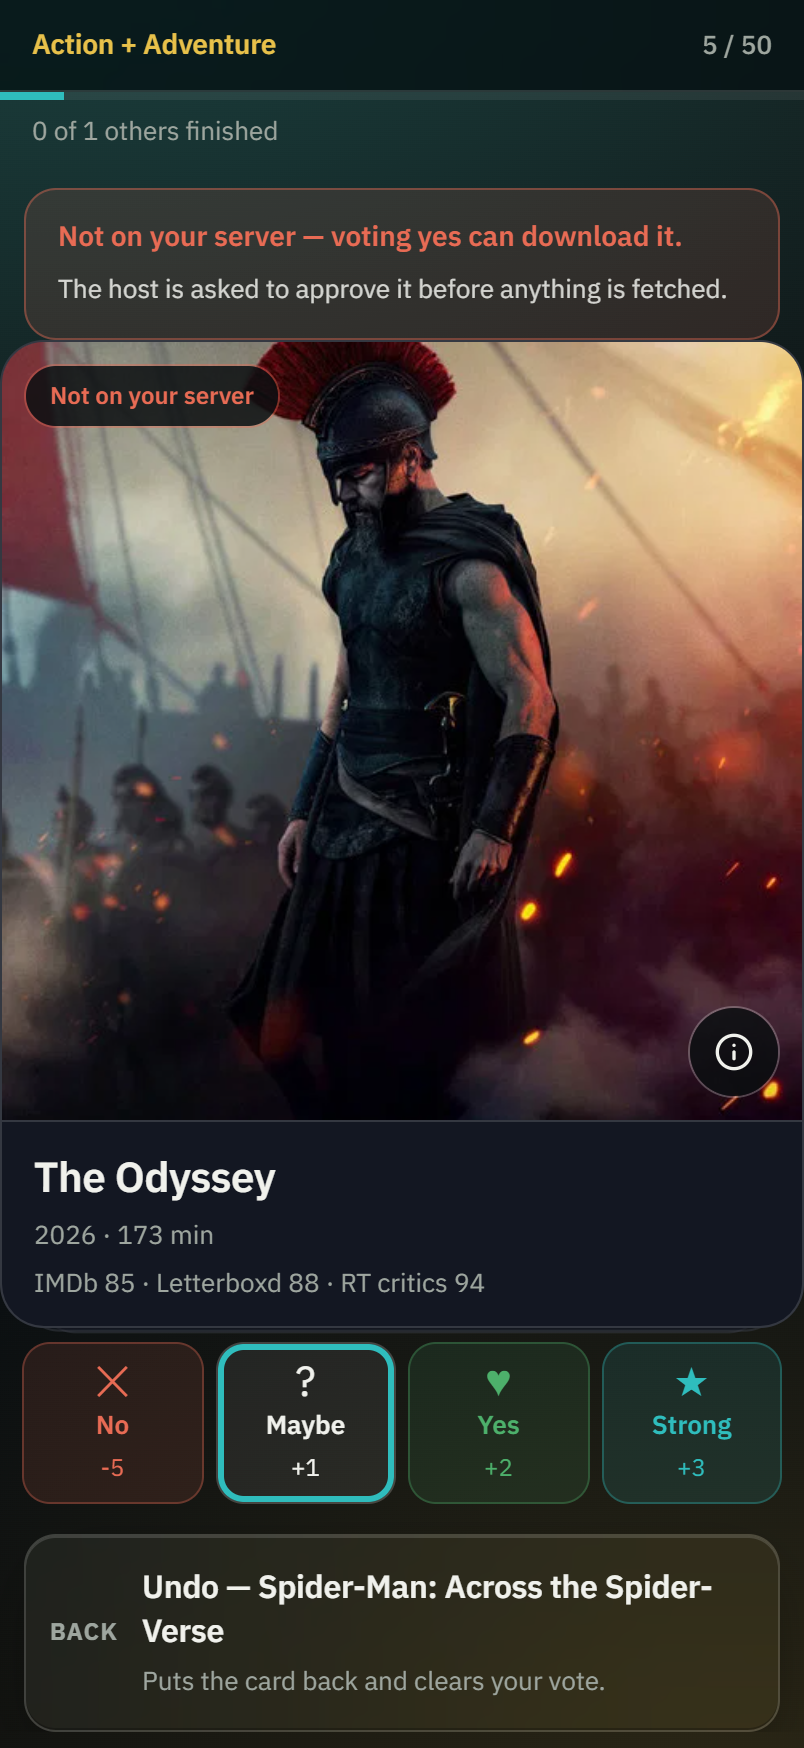
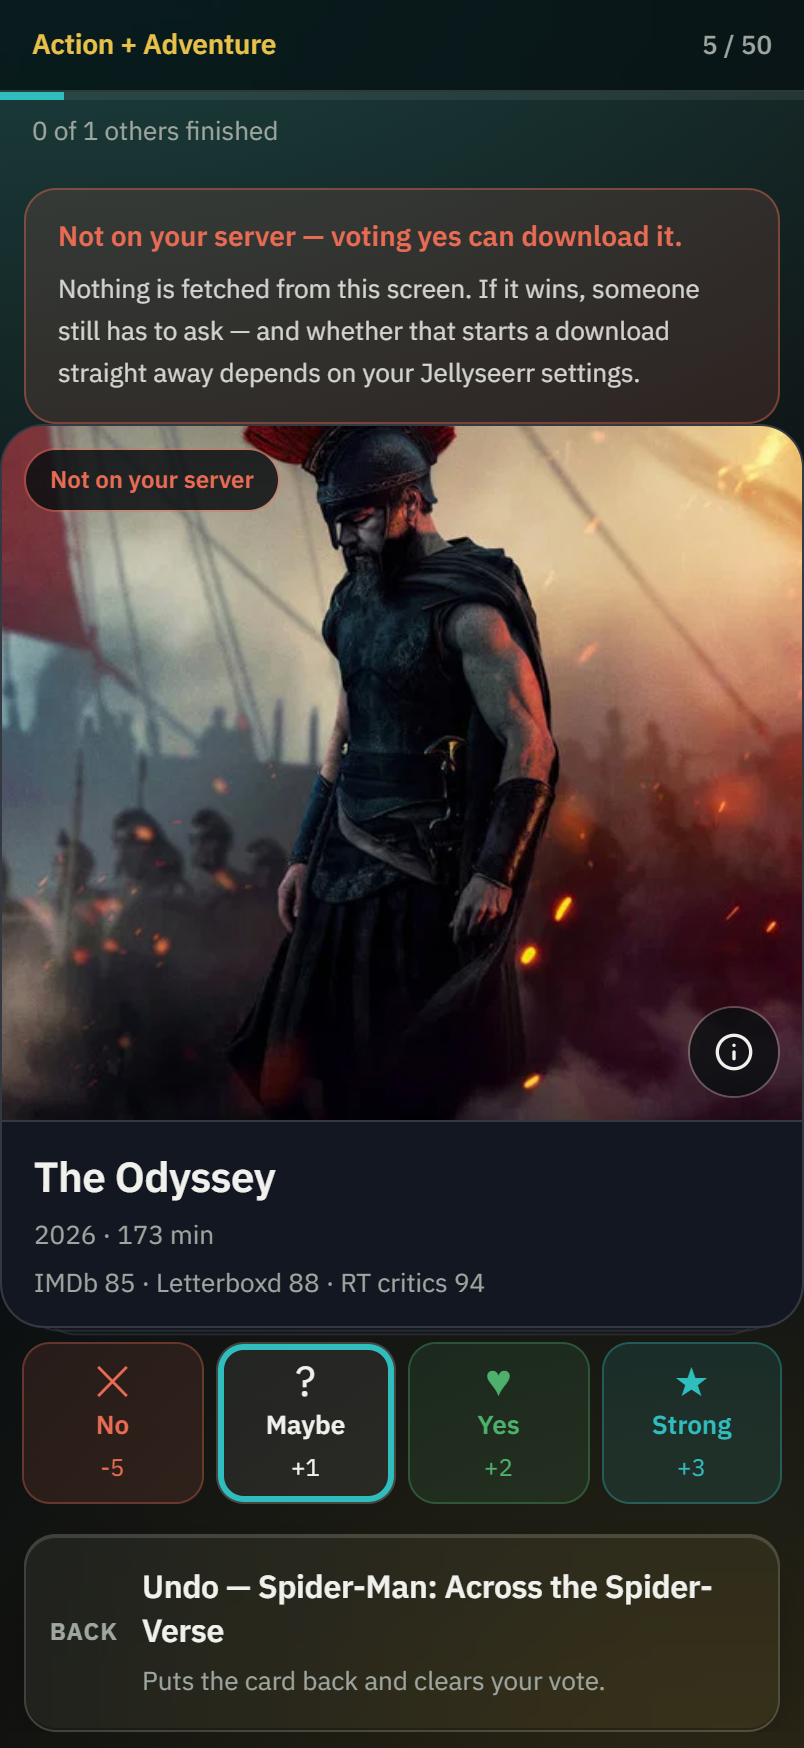
Photograph the branch nobody had seen, and give its confirms focus
Board round 4, the rest of the queue.

R113. Both confirmations on the winner screen replace the button that
opened them, so React unmounts the pressed control and focus falls to
<body> with nothing announced -- on the two controls where the next tap
either throws away what the room agreed on or spends somebody else's
disk. Same failure R52 fixed on the winner heading and R31 on the details
sheet; it survived because neither ruling was about a control that
deletes itself. Each confirm is now a labelled group that takes focus,
marked data-app-focus so no ring is drawn.

The sending state had no accessible name at all: its only child was an
aria-hidden spinner, so a screen reader user pressed "Yes, ask" and the
button went silent -- the one moment where silence and success look
identical and the difference is a download.

R114. Every winner capture ran in local scope, where the film is always
on the server, so the whole download-disclosure branch had only been read
as source and never seen. Two false claims survived in that copy because
of it: R107's approval gate, and R111 where the fix for R107 missed one
of four sites and shipped for hours in the place a person reads
immediately before pressing the button. The Any Movie pass now drives a
not-held film to the winner screen and opens the confirmation, so the bar,
the cost line and the confirm appear in one frame and the next
contradiction between them is visible rather than deducible.
[…]

Changed region(s): [[0.0, 0.1545, 1.0, 0.6487]]

diff --git a/src/ui/components/WinnerScreen.tsx b/src/ui/components/WinnerScreen.tsx
@@ -19,6 +19,13 @@ export function WinnerScreen({
   const { room, rejectWinner } = roomHook;
   const heading = useRef<HTMLHeadingElement>(null);
   const [confirmingReject, setConfirmingReject] = useState(false);
+  const rejectPanel = useRef<HTMLDivElement>(null);
+
+  // R113: the panel replaces the button that opened it, so focus has to be put
+  // somewhere deliberately or it falls to <body> with nothing announced.
+  useEffect(() => {
+    if (confirmingReject) rejectPanel.current?.focus();
+  }, [confirmingReject]);
 
   /**
    * R52: this screen replaces the deck outright. Nothing announced that, so a
@@ -172,7 +179,26 @@ export function WinnerScreen({
           and a confirm here costs nothing: nobody rejects a winner in a hurry.
         */}
         {confirmingReject ? (
-          <div className="flex flex-col gap-2">
+          /*
+            R113: the control that opened this panel no longer exists.
+
+            Both confirms replace their own trigger, so React unmounts the
+            button under the thumb that pressed it and focus falls to <body> --
+            the screen changes and a screen reader is told nothing, which is the
+            failure R52 fixed on the winner heading and R31 on the details
+            sheet, in the one place where the next tap spends somebody's disk or
+            throws away the room's decision.
+
+            data-app-focus so no ring is drawn: nobody navigated here (R80).
+          */
+          <div
+            ref={rejectPanel}
+            tabIndex={-1}
+            data-app-focus
+            role="group"
+            aria-label="Confirm turning down this film"
+            className="flex flex-col gap-2 outline-none"
+          >
             <p
               id="reject-cost"
               className="rounded-[var(--radius-control)] bg-super/12 px-3.5 py-2.5 text-body font-medium leading-relaxed text-super ring-1 ring-super/35"
@@ -269,6 +295,12 @@ function RequestControl({
 }) {
   const [state, setState] = useState<'idle' | 'confirm' | 'busy' | 'done' | 'error'>('idle');
   const [message, setMessage] = useState<string | null>(null);
+  const confirmPanel = useRef<HTMLDivElement>(null);
+
+  // R113, as above: this panel also unmounts its own trigger.
+  useEffect(() => {
+    if (state === 'confirm') confirmPanel.current?.focus();
+  }, [state]);
 
   async function send() {
     setState('busy');
@@ -306,7 +338,14 @@ function RequestControl({
 
   if (state === 'confirm' || state === 'busy') {
     return (
-      <div className="flex flex-col">
+      <div
+        ref={confirmPanel}
+        tabIndex={-1}
+        data-app-focus
+        role="group"
+        aria-label="Confirm asking for this film"
+        className="flex flex-col outline-none"
+      >
         <p
           id="request-cost"
           className="rounded-[var(--radius-control)] bg-destructive/[0.14] px-3.5 py-2.5 text-label font-medium leading-relaxed text-destructive ring-1 ring-destructive/35"
@@ -318,7 +357,16 @@ function RequestControl({
         </p>
         <div className="grid grid-cols-2 gap-2">
           <BigButton onClick={send} tone="commit" disabled={state === 'busy'} ariaDescribedBy="request-cost">
-            {state === 'busy' ? <Loader2 aria-hidden className="mx-auto size-5 animate-spin" /> : 'Yes, ask'}
+            {state === 'busy' ? (
+              <>
+                {/* The spinner is decorative; without this the button has no
+                    accessible name at all while it is sending (R113). */}
+                <Loader2 aria-hidden className="mx-auto size-5 animate-spin" />
+                <span className="sr-only">Sending the request…</span>
+              </>
+            ) : (
+              'Yes, ask'
+            )}
           </BigButton>
           <BigButton onClick={() => setState('idle')} tone="ghost">
             Cancel

diff --git a/scripts/screenshots.ts b/scripts/screenshots.ts
@@ -518,6 +518,12 @@ async function main() {
       */
       const wide = await hostRoom();
       sockets.push(wide.a);
+      // Keep the latest state, so the socket member can vote on the same card
+      // the browser is looking at without another round trip.
+      let wideState: { deck?: Array<{ id: string; title: string }> } = {};
+      wide.a.on('room:state', (st: typeof wideState) => {
+        wideState = st;
+      });
       await ack(wide.a, 'room:settings', { scope: 'wide' });
 
       await open(page, `${URL}/room/${wide.roomId}`, '#join-name');
@@ -599,6 +605,60 @@ ${seen.slice(0, 400)}`);
       if (found) {
         await new Promise((r) => setTimeout(r, 500));
         await shoot(page, '10-deck-not-on-server');
+
+        /*
+          The winner screen for a film the server does not have.
+
+          Never photographed: every winner capture runs in local scope, where
+          `held` is true, so the branch carrying the download disclosure — the
+          cost line, and the request control under it — had only ever been read
+          as source. Two separate wrong claims survived in that copy because of
+          it (R107 and R111), the second for hours after the first was fixed.
+
+          NOTHING HERE PRESSES SEND. "Request via Jellyseerr" only opens the
+          confirmation; the send is "Yes, ask" inside it, and this script must
+          never touch that control — it fires a real request into the host's
+          Radarr as a real download.
+        */
+        const notHeld = await page.evaluate(() => {
+          for (const b of document.querySelectorAll('button')) {
+            const m = /^Vote yes on (.+), \+2$/.exec(b.getAttribute('aria-label') ?? '');
+            if (m) return m[1];
+          }
+          return null;
+        });
+        const notHeldId = wideState.deck?.find((c) => c.title === notHeld)?.id;
+
+        if (notHeld && notHeldId) {
+          // Listen before acting: the match resolves inside the browser click,
+          // and attaching afterwards waits for a broadcast already sent.
+          const landed = withTimeout(
+            on(wide.a, 'match:declared', () => true),
+            30_000,
+            'the not-held winner to be declared',
+          );
+          await ack(wide.a, 'swipe:vote', { cardId: notHeldId, points: 2 });
+          await clickButton(page, `Vote yes on ${notHeld}, +2`);
+          await landed;
+          await page
+            .locator('h1[data-app-focus]')
+            .setTimeout(30_000)
+            .waitHandle()
+            .catch(async () => {
+              const seen = await page.evaluate(() => document.body.innerText).catch(() => '');
+              throw new Error(`the not-held winner never landed. On screen:\n${seen.slice(0, 400)}`);
+            });
+          await new Promise((r) => setTimeout(r, 1500));
+          await shoot(page, '11-winner-not-on-server');
+
+          // Opens the confirmation only. The send stays untouched.
+          await clickButton(page, 'Request via Jellyseerr');
+          await new Promise((r) => setTimeout(r, 600));
+          await shoot(page, '12-request-confirm');
+        } else {
+          console.log('  WARNING: could not identify the unowned card; 11 and 12 not captured');
+          failures += 1;
+        }
       } else {
         // Say so rather than committing a picture of the wrong thing. Every
         // capture here that quietly showed the wrong state got there by a step

diff --git a/src/ui/__tests__/pins.test.ts b/src/ui/__tests__/pins.test.ts
@@ -199,6 +199,9 @@ const LATESHOW: Pin[] = [
   { id: 'T110', why: 'The live token is keyed by socket id, not kept in socket.data, which several handlers replace wholesale. Stored there, signing in would work and then silently un-authenticate the member on their next action', find: 'const liveTokens = new Map<string, string>()' },
   { id: 'T111', why: 'Only the socket that still holds a seat may give it up. socket.io reaps a dropped connection on its own clock, up to 45s, so a phone moving between networks rejoins long before the old socket dies -- and that stale disconnect evicted somebody sitting right there, deleting a lobby seat or marking a present swiper disconnected, which is the sole test of who can stall a room (R112)', find: 'if (!ctx.store.ownsSeat(roomId, userId, ctx.session.id)) return;' },
   { id: 'T112', why: 'Seat ownership is held off the Room, like the secrets. viewFor builds a member’s view by spreading the room, and which socket holds a seat is not the room’s business', find: 'private seatSockets = new Map<string, string>()' },
+  { id: 'T113', why: 'The reject confirmation takes focus when it replaces the button that opened it. React unmounts the pressed control, so focus fell to <body> and nothing was announced -- on the control that throws away what the room agreed on (R113)', find: "aria-label=\"Confirm turning down this film\"" },
+  { id: 'T114', why: 'The request confirmation does the same, on the control that spends the host’s disk', find: "aria-label=\"Confirm asking for this film\"" },
+  { id: 'T115', why: 'The sending state says what it is doing. Its only child was an aria-hidden spinner, so a screen reader user pressed “Yes, ask” and the button went silent -- the one moment where silence and success look identical and the difference is a download', find: 'Sending the request' },
   { id: 'T104', why: 'The screen reports which of the two actually happened. Jellyseerr returns 1 for pending and 2 for approved; that value reached the ack and went no further, so the app guessed instead of reading it', find: 'Your Jellyseerr is holding it for approval.' },
   { id: 'T105', why: 'A member leaving the LOBBY re-checks whether the round can start. Lobby leavers are deleted outright, so the room can become all-ready by their going -- and startKnockout was reachable only from setReady, so three members with two ready sat on “Everyone is in. Starting.” until the TTL reaped the room (R108)', find: "if (current.status === 'LOBBY') {" },
   { id: 'T106', why: 'The app asks whether it can actually write its cache. The image runs non-root and a bind mount does not inherit the image directory’s ownership, so the documented quickstart made a container that could not write -- and both writers fail open, so ratings re-fetched every build and the household was never remembered, with no symptom a host would recognise (R109)', find: 'export async function cacheWritable' },

diff --git a/README.md b/README.md
@@ -3,8 +3,8 @@
 [![gate](https://github.com/phineasfritsch/jellyfin-matcher/actions/workflows/docker.yml/badge.svg)](https://github.com/phineasfritsch/jellyfin-matcher/actions/workflows/docker.yml)
 [![image](https://ghcr-badge.egpl.dev/phineasfritsch/jellyfin-matcher/latest_tag?trim=major&label=ghcr.io)](https://github.com/phineasfritsch/jellyfin-matcher/pkgs/container/jellyfin-matcher)
 [![licence: MIT](https://img.shields.io/badge/licence-MIT-1c7a52)](LICENSE)
-[![tests](https://img.shields.io/badge/tests-498%20in%2029%20files-1c7a52)](CONTRIBUTING.md#the-one-command)
-[![pinned claims](https://img.shields.io/badge/pinned%20claims-177-2f4b78)](CONTRIBUTING.md#pinned-claims-and-why-a-test-might-fail-for-a-good-reason)
+[![tests](https://img.shields.io/badge/tests-501%20in%2029%20files-1c7a52)](CONTRIBUTING.md#the-one-command)
+[![pinned claims](https://img.shields.io/badge/pinned%20claims-180-2f4b78)](CONTRIBUTING.md#pinned-claims-and-why-a-test-might-fail-for-a-good-reason)
 
 **Everyone swipes the same deck on their own phone. The first film you all like wins.**
 No stalemates — that's the whole point.
@@ -16,8 +16,8 @@ through the whole deck without agreeing and the points decide, so you still get 
 
 <p align="center">
   <img src="docs/screenshots/04-knockout.png" alt="The genre knockout: a list of genres with checkboxes to pick everything you would watch, a note explaining that overlap decides the deck, and a no-preference option" width="270">
-  <img src="docs/screenshots/05-deck.png" alt="The swipe deck: a full-bleed poster for Toy Story 3, its year, runtime and ratings named by source, and four vote buttons showing their point weights" width="270">
-  <img src="docs/screenshots/08-winner.png" alt="The winner screen: a full-size Toy Story 3 poster under confetti, the words Everyone said yes, and a Play in Jellyfin button beside a keep swiping escape hatch" width="270">
+  <img src="docs/screenshots/05-deck.png" alt="The swipe deck: a full-bleed film poster with its year, runtime and ratings named by source, and four vote buttons showing their point weights" width="270">
+  <img src="docs/screenshots/08-winner.png" alt="The winner screen: a full-size poster under confetti, the words Everyone said yes, and a Play in Jellyfin button beside a keep swiping escape hatch" width="270">
 </p>
 
 <p align="center">
@@ -37,7 +37,7 @@ It talks to a Jellyfin server for your local library, Jellyseerr for the "any mo
   asked for when an action actually costs something.
 - **Nothing downloads by accident.** "Any Movie" says so on the control, the card says
   which films aren't on your server, and the request itself takes a second tap.
-- **It works in the dark, one-handed.** Every control is a 60px row, every vote has a
+- **It works in the dark, one-handed.** Nothing you tap is under 44px, the list rows are 60, every vote has a
   button as well as a gesture, and the type scales with your OS text size.
 - **One small container.** Multi-stage image, non-root, healthcheck, no database.
 
@@ -234,11 +234,11 @@ Auth is `?apikey=` in the query string. `POST /tmdb/movie/` with `{"ids": [...]}
 
 ## Testing
 
-`npm run gate` is the one command: typecheck, the suite, the pinned claims, and a production build, each numbered and counted, non-zero if anything drops. Currently 498 cases across 29 files.
+`npm run gate` is the one command: typecheck, the suite, the pinned claims, and a production build, each numbered and counted, non-zero if anything drops. Currently 501 cases across 29 files.
 
 Most of those are unit tests over the scoring math, knockout state machine, deck ordering, match rules, and the API clients (mocked fetch, injectable clocks). The realtime path got verified with an actual browser plus the scripted partner: full lobby to confetti flow against a real Jellyfin library.
 
-Another 177 are *pinned claims* — accessibility hooks, the copy that tells you an action will actually download something, empty states that explain themselves, promises made in this README. None of them would break a normal test if they were deleted, which is exactly why they're pinned. `npm run inventory` finds new candidates; `npm run prod:read` says whether the deployed server is up, configured, and running this commit. The reasoning is in [OPERATING.md](OPERATING.md).
+Another 180 are *pinned claims* — accessibility hooks, the copy that tells you an action will actually download something, empty states that explain themselves, promises made in this README. None of them would break a normal test if they were deleted, which is exactly why they're pinned. `npm run inventory` finds new candidates; `npm run prod:read` says whether the deployed server is up, configured, and running this commit. The reasoning is in [OPERATING.md](OPERATING.md).
 
 ## License
 

diff --git a/docs/RULINGS.md b/docs/RULINGS.md
@@ -45,13 +45,13 @@ defined at their first citation.
 | **R28** | `docs/DIRECTION.md:120` | — |
 | **R29** | `docs/DIRECTION.md:124` | `src/ui/components/MovieDetails.tsx:178` |
 | **R30** | `docs/DIRECTION.md:125` | — |
-| **R31** | `docs/DIRECTION.md:126` | `src/ui/components/MovieDetails.tsx:75` +4 |
+| **R31** | `docs/DIRECTION.md:126` | `src/ui/components/MovieDetails.tsx:75` +5 |
 | **R32** | `docs/DIRECTION.md:130` | — |
 | **R33** | `docs/DIRECTION.md:131` | — |
 | **R34** | `docs/DIRECTION.md:135` | — |
 | **R35** | `docs/DIRECTION.md:136` | `src/ui/components/Knockout.tsx:221` |
 | **R36** | `docs/DIRECTION.md:140` | — |
-| **R37** | `docs/DIRECTION.md:141` | `src/ui/components/WinnerScreen.tsx:248` |
+| **R37** | `docs/DIRECTION.md:141` | `src/ui/components/WinnerScreen.tsx:274` |
 | **R38** | `docs/DIRECTION.md:145` | — |
 | **R39** | _at its citation_ | `src/ui/components/Knockout.tsx:97` +2 |
 | **R40** | _at its citation_ | `src/ui/components/Listing.tsx:16` +3 |
@@ -66,8 +66,8 @@ defined at their first citation.
 | **R49** | _at its citation_ | `src/ui/components/SwipeCard.tsx:8` +1 |
 | **R50** | _at its citation_ | `src/ui/components/VoteRow.tsx:14` |
 | **R51** | _at its citation_ | `src/ui/components/VoteRow.tsx:43` +1 |
-| **R52** | _at its citation_ | `src/ui/components/WinnerScreen.tsx:24` +1 |
-| **R53** | _at its citation_ | `src/ui/components/WinnerScreen.tsx:70` |
+| **R52** | _at its citation_ | `src/ui/components/WinnerScreen.tsx:31` +2 |
+| **R53** | _at its citation_ | `src/ui/components/WinnerScreen.tsx:77` |
 | **R54** | _at its citation_ | `server/diagnose.ts:8` +3 |
 | **R55** | _at its citation_ | `src/ui/AuthGate.tsx:162` |
 | **R58** | `docs/DIRECTION.md:221` | `src/ui/components/SwipeCard.tsx:189` |
@@ -82,15 +82,15 @@ defined at their first citation.
 | **R68** | _at its citation_ | `server/index.ts:79` +1 |
 | **R69** | _at its citation_ | `server/handlers.ts:17` |
 | **R70** | _at its citation_ | `server/diagnose.ts:102` +1 |
-| **R71** | _at its citation_ | `src/ui/components/WinnerScreen.tsx:169` |
+| **R71** | _at its citation_ | `src/ui/components/WinnerScreen.tsx:176` |
 | **R73** | _at its citation_ | `src/ui/RoomClient.tsx:146` |
 | **R74** | _at its citation_ | `src/ui/components/Listing.tsx:142` +2 |
 | **R75** | _at its citation_ | `server/validate.ts:10` |
 | **R76** | _at its citation_ | `server/index.ts:526` |
 | **R77** | _at its citation_ | `server/handlers.ts:110` +3 |
 | **R78** | _at its citation_ | `server/history.ts:80` +1 |
-| **R79** | _at its citation_ | `src/ui/components/WinnerScreen.tsx:81` +1 |
-| **R80** | `docs/DIRECTION.md:262` | `src/ui/components/MovieDetails.tsx:46` +1 |
+| **R79** | _at its citation_ | `src/ui/components/WinnerScreen.tsx:88` +1 |
+| **R80** | `docs/DIRECTION.md:262` | `src/ui/components/MovieDetails.tsx:46` +2 |
 | **R81** | `docs/DIRECTION.md:281` | `src/ui/components/MovieDetails.tsx:37` +1 |
 | **R82** | `docs/DIRECTION.md:297` | `scripts/gate.ts:132` +1 |
 | **R83** | `docs/DIRECTION.md:327` | `src/ui/components/MovieDetails.tsx:53` |

diff --git a/docs/DIRECTION.md b/docs/DIRECTION.md
@@ -1257,3 +1257,48 @@ goes offline for five seconds, comes straight back, and the harness then waits o
 full server timeout before checking she is still there. The wait is the whole point —
 the eviction happens on the server's clock, not the phone's, so a test that checked
 immediately would have passed against the bug.
+
+### R113 — A confirm that replaces its own trigger has to take the focus.
+
+**Frozen:** both confirmations on the winner screen swapped themselves in where the
+button that opened them had been.
+
+**Built:** each is a labelled group that takes focus when it appears, and the busy
+button says what it is doing.
+
+**Why.** React unmounts the pressed control, so focus falls to `<body>` and a screen
+reader is told nothing: the screen changed and the next tap either throws away what
+the room agreed on or spends somebody's disk. This is the failure R52 fixed on the
+winner heading and R31 on the details sheet, in the two places where getting it wrong
+is most expensive — and it survived both because neither of those rulings was about a
+control that deletes itself.
+
+`data-app-focus` so no ring is drawn (R80): nobody navigated here.
+
+The sending state had no accessible name at all. Its only child was an `aria-hidden`
+spinner, so a screen reader user pressed "Yes, ask" and the button went silent — the
+one moment in the app where silence and success look identical and the difference is
+a download.
+
+### R114 — Photograph the branch, not the happy path.
+
+**Frozen:** every winner capture ran in local scope, where the film is always on the
+server.
+
+**Built:** the Any Movie pass drives a not-held film all the way to the winner screen
+and opens the request confirmation.
+
+**Why.** `held` is true in every local-scope room, so the entire download-disclosure
+branch — the cost line, the request control, the confirmation that states what asking
+costs — had only ever been read as source, never seen. Two separate false claims
+survived in that copy because of it: R107's promise of an approval gate, and R111,
+where the fix for R107 missed one of the four sites and shipped for hours in the one
+place a person reads immediately before pressing the button.
+
+The screenshot is now the check. `12-request-confirm.png` shows the bar, the cost
+line, and the confirmation in a single frame, so the next contradiction between them
+is visible rather than deducible.
+
+**The send is never pressed.** "Request via Jellyseerr" opens the confirmation; the
+send is "Yes, ask" inside it, and the capture stops there. A screenshot script that
+can spend the host's disk is not a screenshot script.

diff --git a/OPERATING.md b/OPERATING.md
@@ -21,8 +21,8 @@ Numbered, counted, non-zero on failure:
 | Gate | Checks | Current |
 |---|---|---|
 | G1 | `tsc --noEmit` | clean |
-| G2 | `vitest run`, and the **counts** | 498 cases in 29 files |
-| G3 | pinned claims still pinned | 177 |
+| G2 | `vitest run`, and the **counts** | 501 cases in 29 files |
+| G3 | pinned claims still pinned | 180 |
 | G4 | counts stated in prose match `gates.json` | in sync |
 | G5 | `next build` | builds |
 | G6 | deployed app is up, configured, and on this commit | opt in |
@@ -55,7 +55,7 @@ hope, not a fact.
 
 ## What is pinned, and how to change a pin
 
-`src/ui/__tests__/pins.test.ts` holds 177 claims that nothing else asserts:
+`src/ui/__tests__/pins.test.ts` holds 180 claims that nothing else asserts:
 accessibility hooks, copy that discloses a consequence, empty states that
 explain themselves, README promises. They accumulated one decision at a time
 and a redesign done for appearance deletes them without a single other test
@@ -164,7 +164,7 @@ Every run is a fresh clone with no memory. Include:
 
 1. **Get current**: `git fetch origin && git checkout main && git pull --ff-only`
    then `npm ci`. Include the steps that look redundant.
-2. **The gate, numbered, with today's numbers**: 498 cases, 29 files, 177 pins.
+2. **The gate, numbered, with today's numbers**: 501 cases, 29 files, 180 pins.
    Drift is only visible against a number.
 3. **The traps, as prohibitions**: the list above, not a link to it.
 4. **Ownership**: exactly which files this agent may write. Not "the lobby area".

diff --git a/CLAUDE.md b/CLAUDE.md
@@ -5,10 +5,10 @@
 The condensed version, for anyone who will not:
 
 - **The gate is `npm run gate -- --fast`.** Types, tests, counts, pins.
-  Today: 498 cases in 29 files, 177 pinned claims. Floors in `gates.json`.
+  Today: 501 cases in 29 files, 180 pinned claims. Floors in `gates.json`.
 - **`npm run gate` is not something a worker runs on its own work.** A verifier
   runs it afterwards, serially.
-- **177 claims are pinned** in `src/ui/__tests__/pins.test.ts` — accessibility
+- **180 claims are pinned** in `src/ui/__tests__/pins.test.ts` — accessibility
   hooks, honesty copy, README promises. If one fails, read the rendered page
   before touching the pin, and never weaken a pin to something a blank page
   would pass.

diff --git a/QUEUE.md b/QUEUE.md
@@ -8,7 +8,7 @@ item to Done only when `npm run gate` was green *after* it, run by something
 that is not the agent that did the work. Blocked is a legitimate outcome and
 should be written down, not worked around.
 
-**Today's numbers:** 498 test cases, 29 files, 177 pinned claims, all green.
+**Today's numbers:** 501 test cases, 29 files, 180 pinned claims, all green.
 
 This queue is the output of the review board — see [docs/BOARD.md](docs/BOARD.md)
 for the mandates, how a round runs, and the rule that the product is finished
